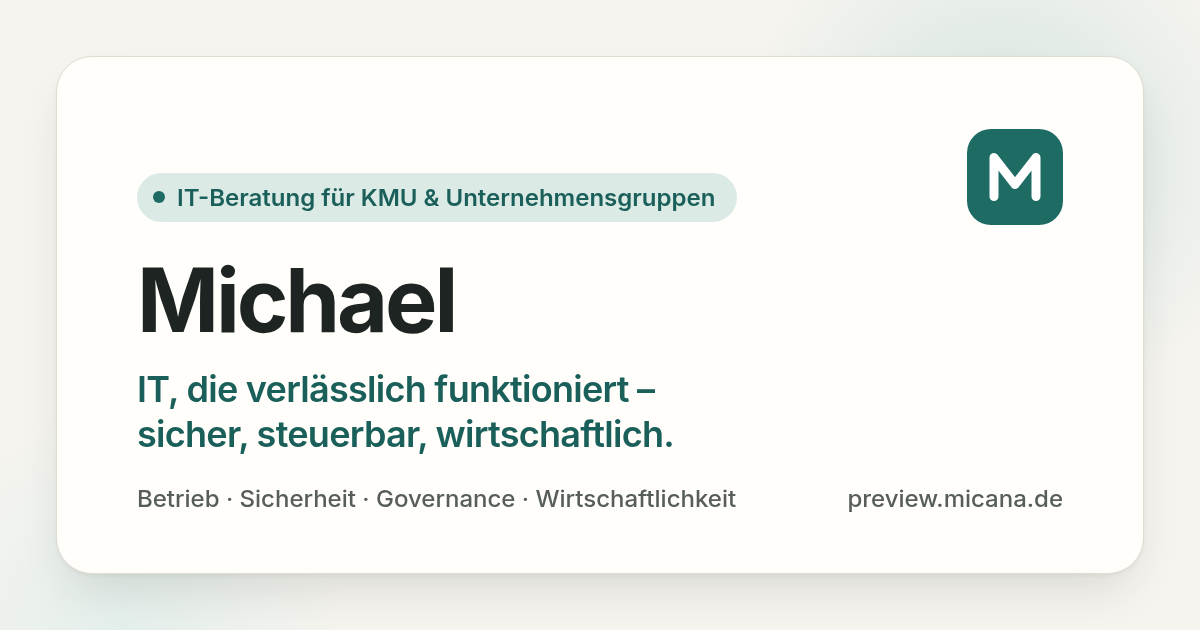
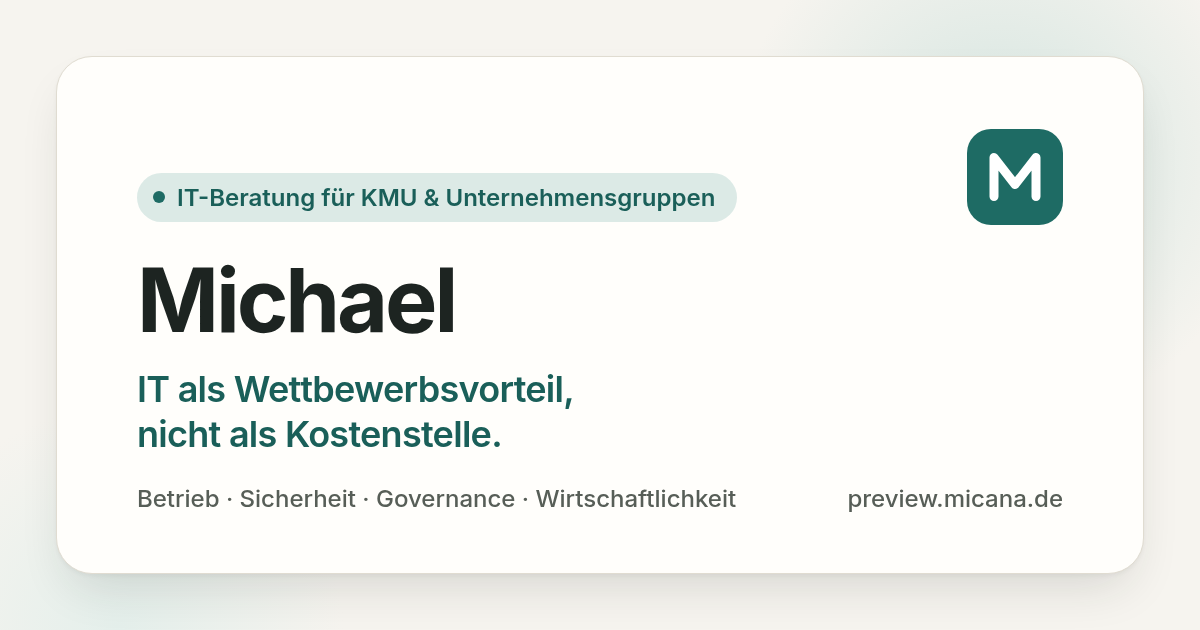
Hero: IT als Wettbewerbsvorteil, nicht als Kostenstelle

Changed region(s): [[0.1233, 0.573, 0.555, 0.7238]]

diff --git a/index.html b/index.html
@@ -4,7 +4,7 @@
 <meta charset="utf-8">
 <meta name="viewport" content="width=device-width, initial-scale=1">
 <title>Michael – IT-Beratung für KMU &amp; Unternehmensgruppen</title>
-<meta name="description" content="Michael – IT-Beratung für KMU und Unternehmensgruppen: pragmatisch, herstellerneutral und mit Blick auf Prozesse, Microsoft 365, Sicherheit, Governance und Wirtschaftlichkeit.">
+<meta name="description" content="Michael – IT-Beratung für KMU und Unternehmensgruppen: IT als Wettbewerbsvorteil, ausgerichtet an Ihren Unternehmenszielen – mit klarer Steuerung, beherrschbaren Risiken und spürbarem Nutzen für das Geschäft.">
 <meta name="author" content="Michael">
 <meta name="color-scheme" content="light dark">
 <meta name="theme-color" content="#f6f4ef" media="(prefers-color-scheme: light)">
@@ -18,7 +18,7 @@
 <meta property="og:locale" content="de_DE">
 <meta property="og:site_name" content="Michael">
 <meta property="og:title" content="Michael – IT-Beratung für KMU &amp; Unternehmensgruppen">
-<meta property="og:description" content="IT, die verlässlich funktioniert – sicher, steuerbar, wirtschaftlich. IT-Beratung für KMU und Unternehmensgruppen.">
+<meta property="og:description" content="IT als Wettbewerbsvorteil, nicht als Kostenstelle. IT-Beratung für KMU und Unternehmensgruppen – ausgerichtet an Ihren Unternehmenszielen.">
 <meta property="og:url" content="https://preview.micana.de/">
 <meta property="og:image" content="https://preview.micana.de/og-image.png">
 <meta property="og:image:width" content="1200">
@@ -26,7 +26,7 @@
 <meta property="og:image:alt" content="Michael – IT-Beratung für KMU &amp; Unternehmensgruppen">
 <meta name="twitter:card" content="summary_large_image">
 <meta name="twitter:title" content="Michael – IT-Beratung für KMU &amp; Unternehmensgruppen">
-<meta name="twitter:description" content="IT, die verlässlich funktioniert – sicher, steuerbar, wirtschaftlich. IT-Beratung für KMU und Unternehmensgruppen.">
+<meta name="twitter:description" content="IT als Wettbewerbsvorteil, nicht als Kostenstelle. IT-Beratung für KMU und Unternehmensgruppen – ausgerichtet an Ihren Unternehmenszielen.">
 <meta name="twitter:image" content="https://preview.micana.de/og-image.png">
 <meta name="twitter:image:alt" content="Michael – IT-Beratung für KMU &amp; Unternehmensgruppen">
 <script type="application/ld+json">
@@ -35,7 +35,7 @@
   "@type": "ProfessionalService",
   "@id": "https://preview.micana.de/#service",
   "name": "Michael – IT-Beratung",
-  "description": "Michael – IT-Beratung für KMU und Unternehmensgruppen: pragmatisch, herstellerneutral und mit Blick auf Prozesse, Microsoft 365, Sicherheit, Governance und Wirtschaftlichkeit.",
+  "description": "Michael – IT-Beratung für KMU und Unternehmensgruppen: IT als Wettbewerbsvorteil, ausgerichtet an Ihren Unternehmenszielen – mit klarer Steuerung, beherrschbaren Risiken und spürbarem Nutzen für das Geschäft.",
   "url": "https://preview.micana.de/",
   "image": "https://preview.micana.de/og-image.png",
   "logo": "https://preview.micana.de/apple-touch-icon.png",
@@ -138,6 +138,7 @@ body{
 h1,h2,h3,h4{line-height:1.2;margin:0;letter-spacing:-.02em;font-weight:700}
 h2{letter-spacing:-.025em;line-height:1.15;text-wrap:balance}
 p{text-wrap:pretty}
+.hero h1 .accent,.hero .lead{text-wrap:balance}
 p{margin:0}
 a{color:var(--accent-ink);text-underline-offset:3px}
 a:hover{text-decoration-thickness:2px}
@@ -186,6 +187,7 @@ section{padding-block:clamp(4rem,9vw,7rem)}
   margin-bottom:1.75rem;
 }
 @media (max-width:420px){.hero .role{font-size:.8125rem;padding:.4rem .85rem .4rem .65rem;gap:.5rem}}
+@media (max-width:380px){.hero .role{font-size:.75rem;letter-spacing:0}}
 .hero .role .dot{flex:none;width:.55rem;height:.55rem;border-radius:50%;background:var(--accent)}
 .hero h1{font-size:clamp(2.5rem,6.2vw,4.25rem);letter-spacing:-.03em;line-height:1.05}
 .hero h1 .accent{color:var(--accent-ink);display:block;font-weight:600;font-size:.52em;letter-spacing:-.02em;margin-top:.75rem}
@@ -390,8 +392,8 @@ footer{border-top:1px solid var(--border);padding-block:2.5rem;color:var(--muted
     <div class="container hero-grid">
       <div class="hero-inner">
         <p class="role"><span class="dot" aria-hidden="true"></span>IT-Beratung für KMU &amp; Unternehmensgruppen</p>
-        <h1 id="hero-titel">Michael <span class="accent">IT, die verlässlich funktioniert – sicher, steuerbar, wirtschaftlich.</span></h1>
-        <p class="lead">Ich unterstütze Sie dabei, Ihre IT klar zu strukturieren: von Microsoft&nbsp;365 und Identitäten über Automatisierung bis zu Sicherheit, Governance und Kostentransparenz.</p>
+        <h1 id="hero-titel">Michael <span class="accent">IT als Wettbewerbsvorteil, nicht als Kostenstelle.</span></h1>
+        <p class="lead">Ich richte Ihre IT an Ihren Unternehmenszielen aus, mit klarer Steuerung, beherrschbaren Risiken und spürbarem Nutzen für das Geschäft.</p>
         <div class="actions">
           <a class="btn btn-primary" href="#it-beratung">Mehr zur IT-Beratung</a>
           <!-- Kontakt: sobald die Adresse existiert, ersetzen durch:

diff --git a/404.html b/404.html
@@ -82,6 +82,7 @@ body{
 h1,h2,h3,h4{line-height:1.2;margin:0;letter-spacing:-.02em;font-weight:700}
 h2{letter-spacing:-.025em;line-height:1.15;text-wrap:balance}
 p{text-wrap:pretty}
+.hero h1 .accent,.hero .lead{text-wrap:balance}
 p{margin:0}
 a{color:var(--accent-ink);text-underline-offset:3px}
 a:hover{text-decoration-thickness:2px}
@@ -130,6 +131,7 @@ section{padding-block:clamp(4rem,9vw,7rem)}
   margin-bottom:1.75rem;
 }
 @media (max-width:420px){.hero .role{font-size:.8125rem;padding:.4rem .85rem .4rem .65rem;gap:.5rem}}
+@media (max-width:380px){.hero .role{font-size:.75rem;letter-spacing:0}}
 .hero .role .dot{flex:none;width:.55rem;height:.55rem;border-radius:50%;background:var(--accent)}
 .hero h1{font-size:clamp(2.5rem,6.2vw,4.25rem);letter-spacing:-.03em;line-height:1.05}
 .hero h1 .accent{color:var(--accent-ink);display:block;font-weight:600;font-size:.52em;letter-spacing:-.02em;margin-top:.75rem}
